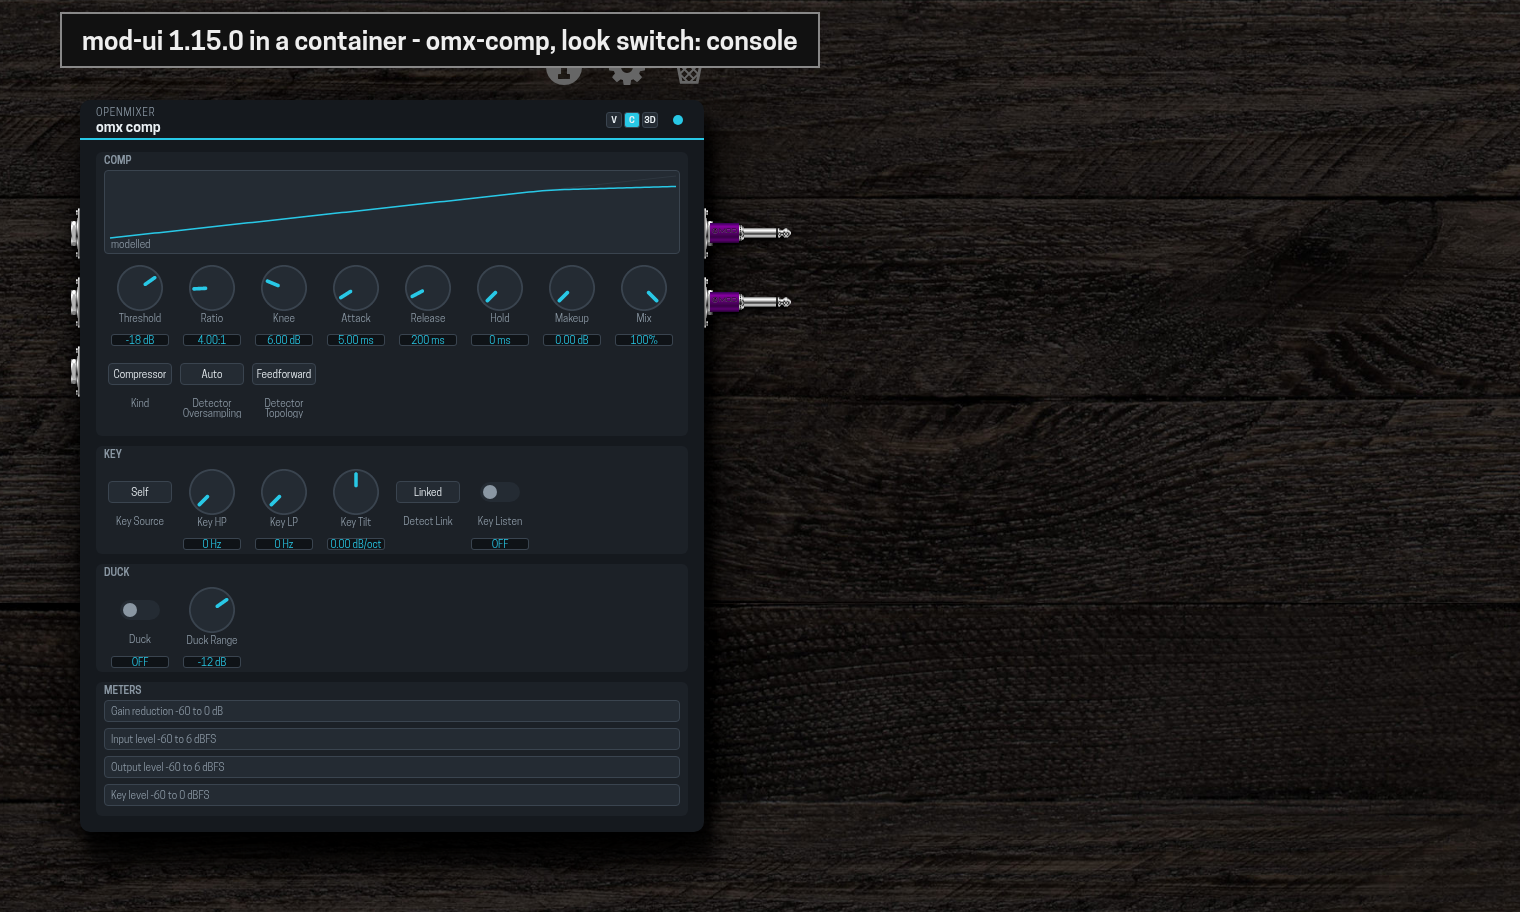
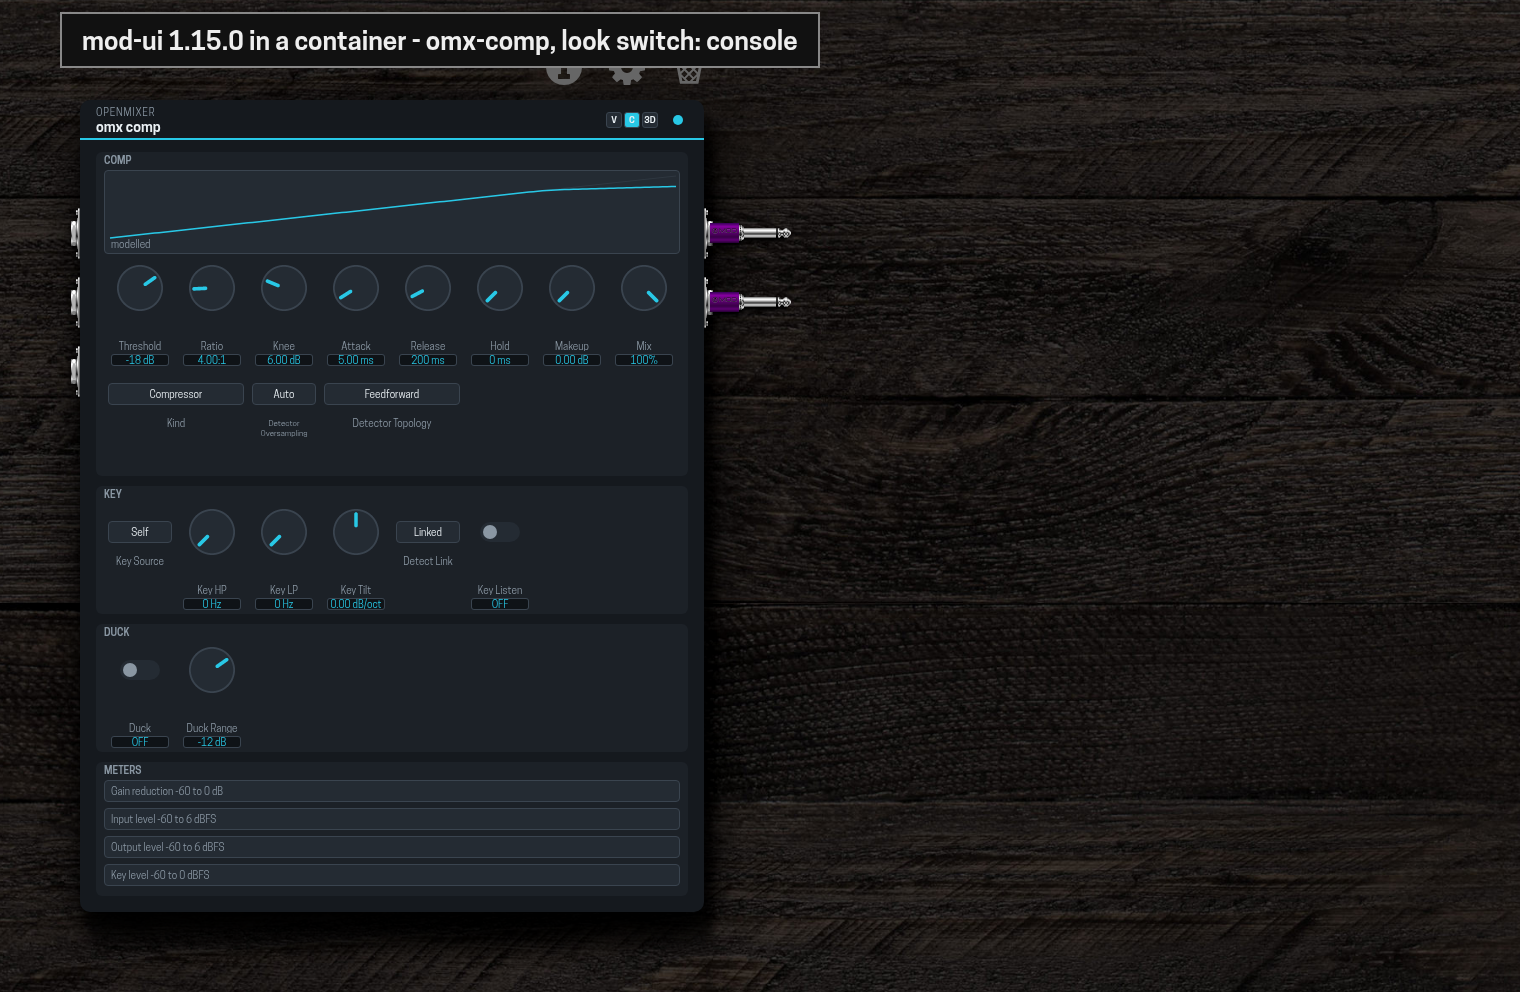
docs: the MOD GUI shots retaken with the review fixes
mod-ui 1.15.0 in a container: the screws, the gain-reduction needle at rest on the right, the pinned inks and keys, the label on its strip.
The shots' README opens with its licence, as do the three SVG drawings.

diff --git a/docs/shots/README.md b/docs/shots/README.md
@@ -10,4 +10,4 @@ Every image: real mod-ui 1.15.0 (build v1.15.0.3371, commit 391c1ed, github.com/
 - `mod-ui-1.15.0-container-comp-live-vintage-needles.png`: omx-comp, vintage, the needles mid-lag: the output ports (compIn, compOut, compKey, compGr) are driven from the page through mod-ui's own output_set path, a scripted level sweep, not an audio tone.
 - `mod-ui-1.15.0-container-comp-live-switch-console.png`, `-switch-3d.png`, `-switch-vintage.png`: the same pedal after a click on the header's look switch; the size and the ports do not change.
 - `mod-ui-1.15.0-container-comp-vintage-metal-closeup.png`: omx-comp, vintage, a close-up (device scale 4) of the header and the first section: the knob film strips in the console's aluminium metal (cap-hi to face, rim, knurl, carved pointer), the recessed glass, the lit scribbles, the metal button caps and the footswitch.
-- Retaken after the label fit (a label breaks only between words, one declared gap to its value strip), the console's relief and metal in the vintage look, the raised-section 3d look, and omx-strip's EQ Bands as a selector.
+- Retaken after the review fixes (mod-ui 1.15.0 in a container, the generator at this commit): the vintage inks and keys read from the console's pinned tokens, 12 px screw heads with a slot in the foot's corners, the gain-reduction needle resting at the right, a label breaking only between words with one declared gap to its value strip, and omx-strip's EQ Bands as a selector.
